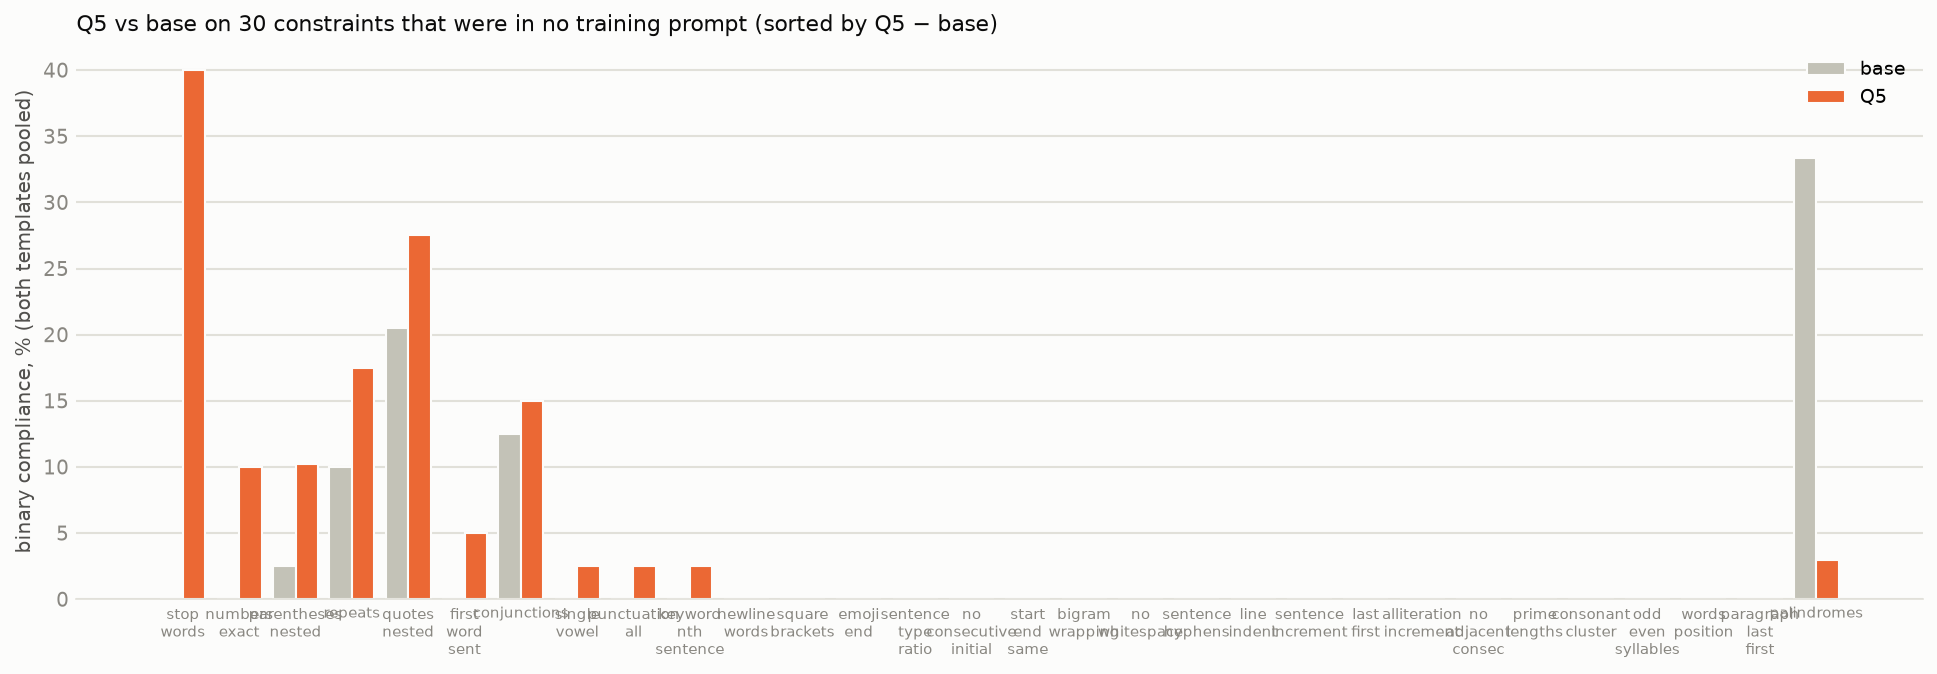
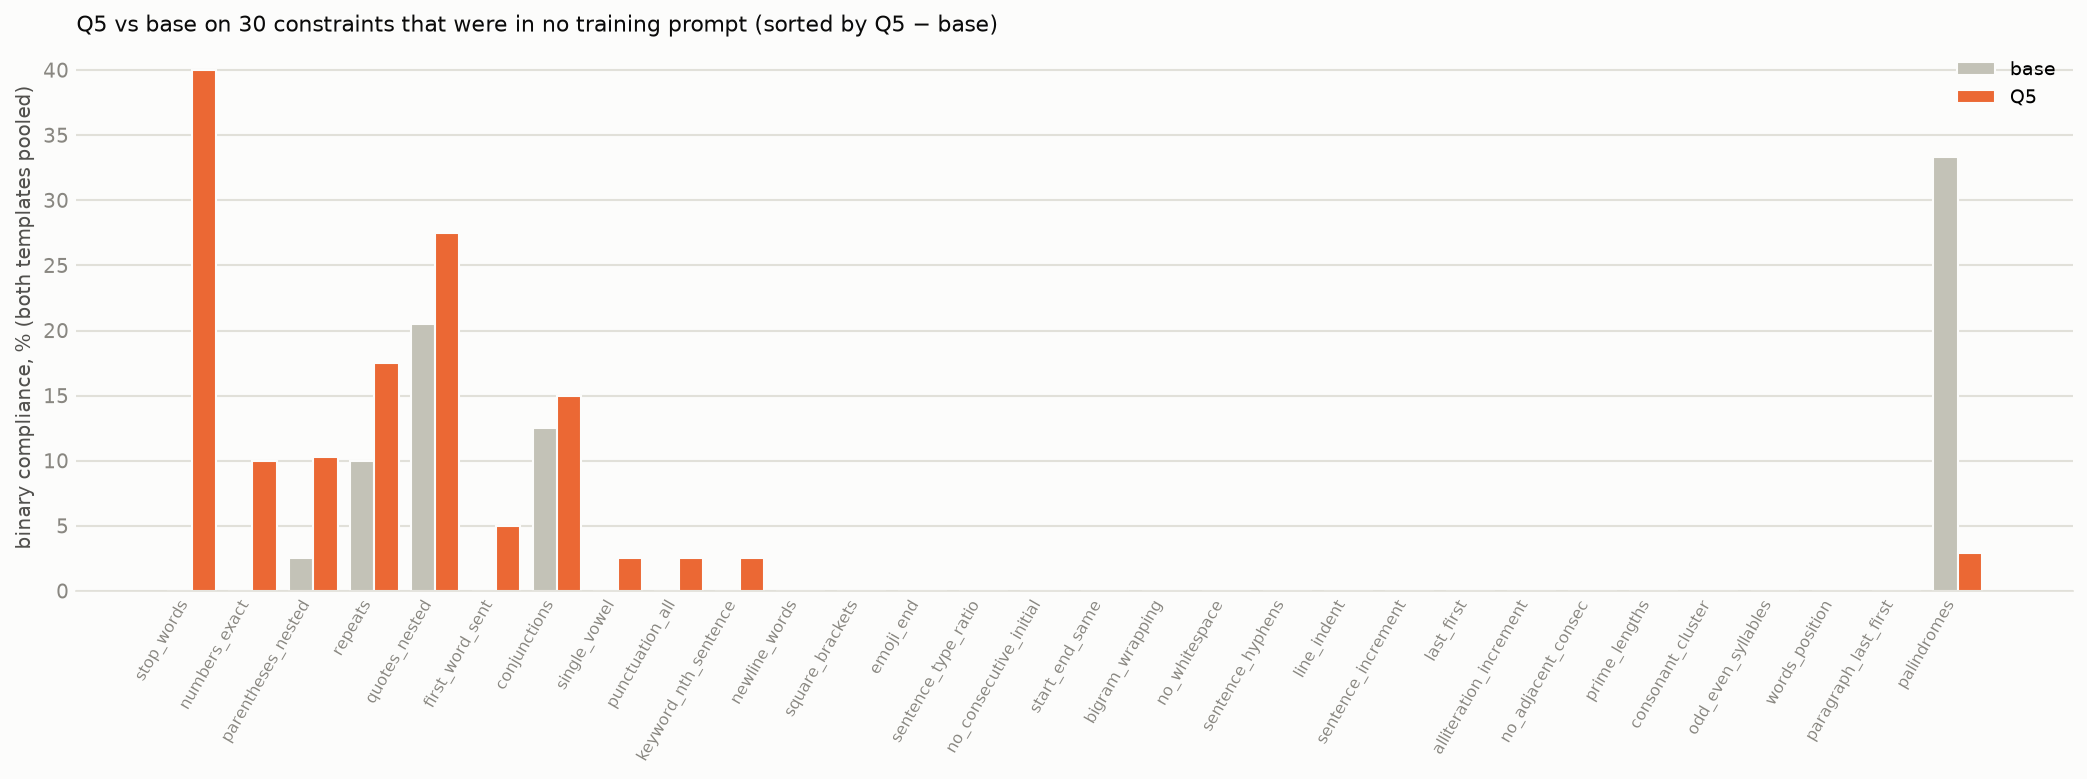
never-seen figure: rotated labels

diff --git a/scripts/report_never_seen.py b/scripts/report_never_seen.py
@@ -35,11 +35,11 @@ def pooled(d): v = [x for xs in d.values() for x in xs]; return 100 * sum(b for 
 md.append("\nPooled over all 30 constraints and both templates: " + "; ".join(f"{k} {pooled(D[k])[0]:.1f} % binary, {pooled(D[k])[1]:.3f} continuous (n={pooled(D[k])[2]})" for k in ("base", "Q5")) + ".")
 # figure: Q5 vs base, binary (templates pooled), 30 constraints, sorted by Q5-base gap
 gaps = sorted(order, key=lambda c: -((bin_(D["Q5"], c)[0] or 0) - (bin_(D["base"], c)[0] or 0)))
-fig, ax = plt.subplots(figsize=(13, 4.6)); w = 0.4
+fig, ax = plt.subplots(figsize=(14, 5.2)); w = 0.4
 for j, (k, col) in enumerate((("base", "#c3c2b7"), ("Q5", "#eb6834"))):
     ys = [bin_(D[k], c)[0] or 0 for c in gaps]
     ax.bar([i + (j - 0.5) * w for i in range(len(gaps))], ys, width=w, color=col, edgecolor=SURF, label=k)
-ax.set_xticks(range(len(gaps))); ax.set_xticklabels([c.replace("_", "\n") for c in gaps], fontsize=7); ax.set_ylabel("binary compliance, % (both templates pooled)"); ax.yaxis.grid(True, color=GRID, lw=1); ax.set_axisbelow(True); ax.tick_params(length=0); ax.spines["left"].set_visible(False)
+ax.set_xticks(range(len(gaps))); ax.set_xticklabels(gaps, fontsize=7.5, rotation=60, ha="right"); ax.set_ylabel("binary compliance, % (both templates pooled)"); ax.yaxis.grid(True, color=GRID, lw=1); ax.set_axisbelow(True); ax.tick_params(length=0); ax.spines["left"].set_visible(False)
 ax.set_title("Q5 vs base on 30 constraints that were in no training prompt (sorted by Q5 − base)", loc="left", fontsize=10.5, color=INK); ax.legend(frameon=False, fontsize=9, loc="upper right")
 fig.tight_layout(); fig.savefig(REPO / "figures/never_seen_all.png", bbox_inches="tight"); plt.close(fig)
 md.append("\n![never-seen, all 30](figures/never_seen_all.png)\n")
